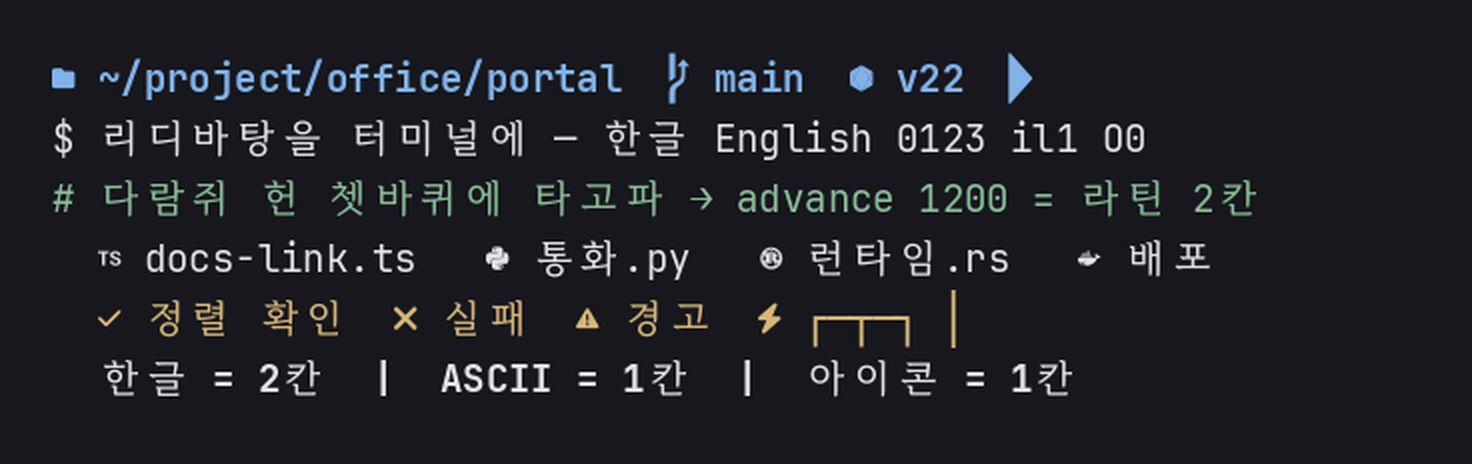
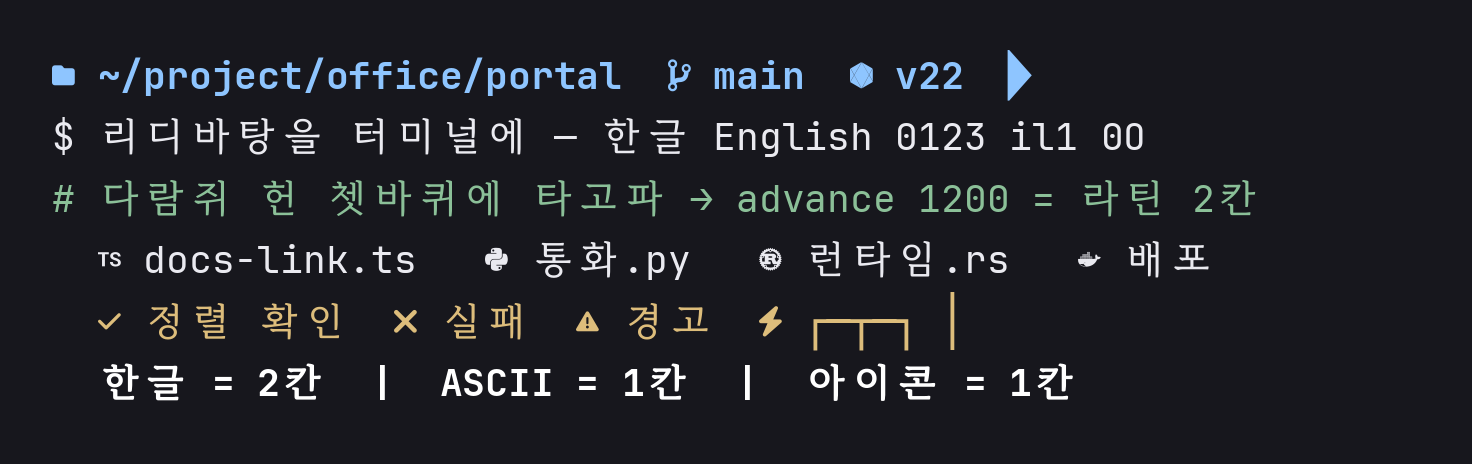
docs: README 를 다시 쓰고 미리보기를 새로 만든다
설치·빌드·옵션·굵기 구성·적용 범위를 절로 나누고, 굵기 열여섯 종의 이름과
실제 획 두께를 표로 적는다. Windows Terminal 절은 뺀다.

docs/make-preview.py 로 미리보기 세 장을 만든다. 터미널 한 화면, 굵기 여덟
단계, 터미널 크기별 비교다. preview.png 는 새 Bold 로 다시 만든 것이다.

diff --git a/docs/make-preview.py b/docs/make-preview.py
@@ -1,0 +1,81 @@
+#!/usr/bin/env python3
+"""README 에 넣는 미리보기 이미지를 만든다.
+
+    pip install pillow
+    python3 docs/make-preview.py
+
+fonts/ 에 빌드된 ttf 가 있어야 한다.
+"""
+from PIL import Image, ImageDraw, ImageFont
+
+BG, FG, WHITE = "#17171d", "#eaeaf0", "#ffffff"
+BLUE, GREEN, YELLOW, DIM = "#8ec5ff", "#8bc098", "#ddbd7b", "#6e7681"
+
+FOLDER, BRANCH, NODE, SEP = "", "", "", ""
+TS, PY, RS, DOCKER = "", "", "", ""
+CHECK, CROSS, WARN, BOLT = "", "", "", ""
+
+WEIGHTS = [("Thin", 0), ("ExtraLight", 0), ("Light", 0), ("Regular", 0),
+           ("Medium", 8), ("SemiBold", 16), ("Bold", 32), ("ExtraBold", 52)]
+
+
+def face(suffix, size):
+    return ImageFont.truetype(f"fonts/JetBatangNF-{suffix}.ttf", size)
+
+
+def canvas(w, h):
+    im = Image.new("RGB", (w, h), BG)
+    return im, ImageDraw.Draw(im)
+
+
+def terminal():
+    """터미널 한 화면. 라틴 1칸 / 한글 2칸 격자가 맞는지 보이는 것이 목적이다."""
+    S, X0, W, H = 38, 52, 1472, 464
+    rows = [
+        (0, "Bold",    BLUE,   f"{FOLDER} ~/project/office/portal  {BRANCH} main  {NODE} v22  {SEP}"),
+        (0, "Regular", FG,     "$ 리디바탕을 터미널에 — 한글 English 0123 il1 0O"),
+        (0, "Regular", GREEN,  "# 다람쥐 헌 쳇바퀴에 타고파 → advance 1200 = 라틴 2칸"),
+        (2, "Regular", FG,     f"{TS} docs-link.ts   {PY} 통화.py   {RS} 런타임.rs   {DOCKER} 배포"),
+        (2, "Regular", YELLOW, f"{CHECK} 정렬 확인  {CROSS} 실패  {WARN} 경고  {BOLT} ┌─┬─┐ │"),
+        (2, "Bold",    WHITE,  "한글 = 2칸  |  ASCII = 1칸  |  아이콘 = 1칸"),
+    ]
+    im, d = canvas(W, H)
+    for i, (indent, suffix, color, text) in enumerate(rows):
+        x = X0 + indent * S * 0.6
+        d.text((x, 89 + i * 61.5), text, font=face(suffix, S), fill=color, anchor="ls")
+    im.save("docs/preview.png")
+
+
+def weights():
+    """굵기 여덟 단계. Regular 아래로는 한글이 더 가늘어지지 않는 것도 같이 보인다."""
+    S, ROW, W = 34, 54, 1180
+    im, d = canvas(W, 44 + ROW * len(WEIGHTS))
+    label, note = face("Regular", 19), face("Regular", 17)
+    for i, (name, em) in enumerate(WEIGHTS):
+        y = 56 + i * ROW
+        d.text((32, y), name, font=label, fill=DIM, anchor="ls")
+        d.text((250, y), "한글 굵기 Hangul 0123", font=face(name, S), fill=FG, anchor="ls")
+        d.text((W - 32, y), f"embolden {em}", font=note,
+               fill=GREEN if em else DIM, anchor="rs")
+    im.save("docs/weights.png")
+
+
+def sizes():
+    """실제 터미널 크기. 명조가 몇 px 부터 뭉개지는지 보라고 넣는다."""
+    text = "한글 = 2칸 | 아이콘 1칸  뷁빻읊쫒 abc 0123"
+    rows = [(s, w) for s in (13, 14, 16, 18) for w in ("Regular", "Bold")]
+    im, d = canvas(940, 30 + sum(s + 20 for s, _ in rows))
+    y = 18
+    for s, w in rows:
+        d.text((24, y + s * 0.8), f"{s}px {w}", font=face("Regular", 15),
+               fill=DIM, anchor="ls")
+        d.text((170, y + s * 0.8), text, font=face(w, s), fill=FG, anchor="ls")
+        y += s + 20
+    im.save("docs/sizes.png")
+
+
+if __name__ == "__main__":
+    terminal()
+    weights()
+    sizes()
+    print("docs/preview.png, docs/weights.png, docs/sizes.png")
